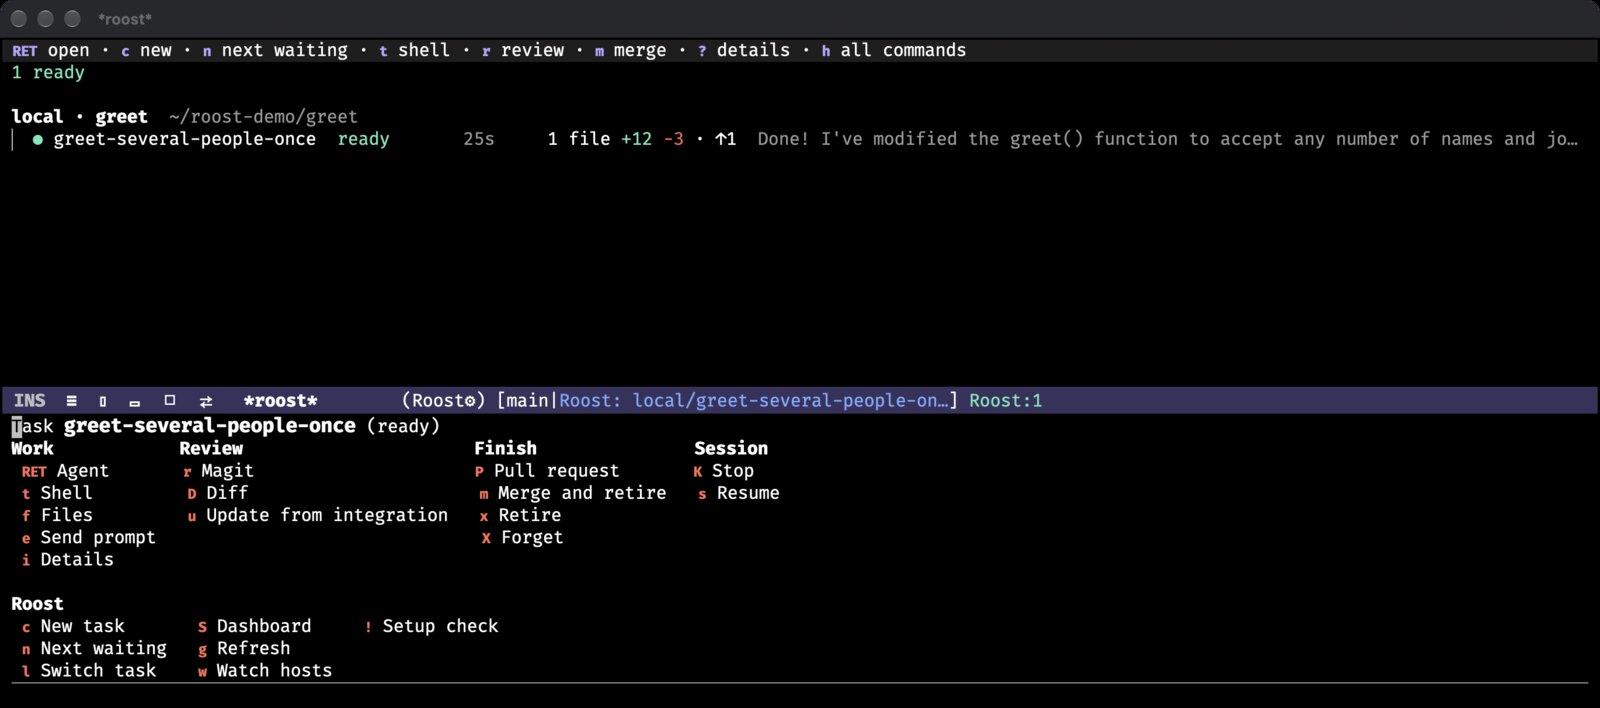
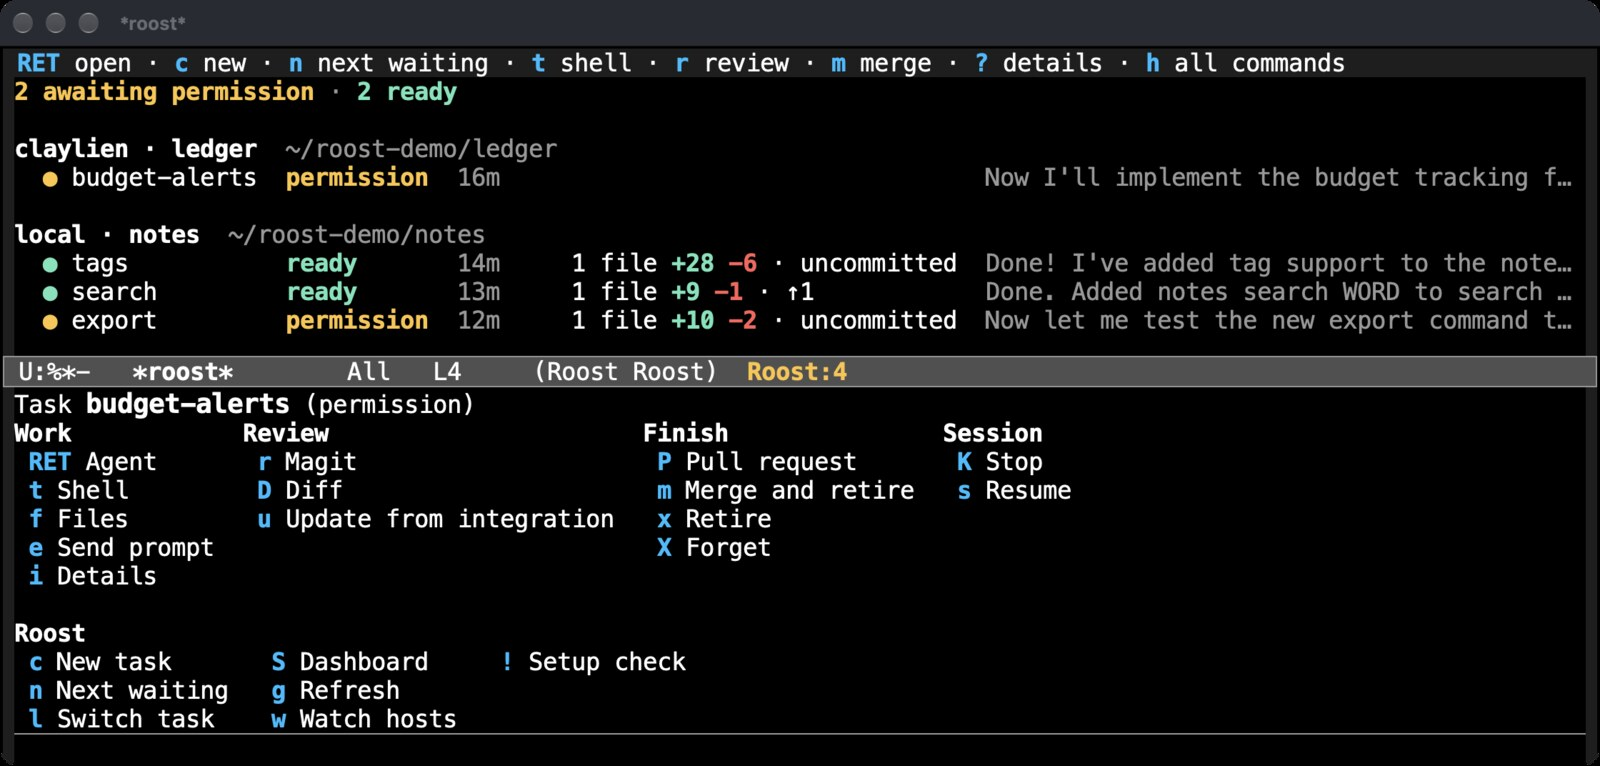
Recapture every README image in a plain Emacs, and show the agent's terminal
All images now come from one consistent setup: the stock theme and mode
line, no personal configuration, and real Claude Code tasks on the Mac
and claylien. A new image shows what RET opens, the agent's own terminal
at a permission prompt, which the old hero squeezed in below the
dashboard.

Changed region(s): [[0.0, 0.0, 1.0, 0.9944], [0.1562, 0.2797, 0.3125, 0.435], [0.3125, 0.839, 0.4375, 0.9011]]

diff --git a/docs/demo.md b/docs/demo.md
@@ -1,24 +1,26 @@
 # The README screenshots
 
-The images are native captures of GUI Emacs on 2026-10-04, taken while real
-agents worked on two small disposable projects: `ledger`, an expense-ledger CLI
-on the SSH host `claylien`, and `notes`, a notes CLI on the Mac. Claude Code ran
-Haiku 4.5 and Codex ran `gpt-6-luna`, each in its own terminal with its normal
-permission prompts.
+The images are native captures of GUI Emacs on 2026-10-04, taken while Claude
+Code (Haiku 4.5) worked on two small disposable projects: `notes`, a notes CLI on
+the Mac, and `ledger`, an expense-ledger CLI on the SSH host `claylien`, each
+agent in its own terminal with its normal permission prompts.
 
-The capture Emacs used the author's configuration (FiraCode, modus-vivendi,
-xah-fly-keys) at a larger font size, without the tab line. It used a separate
-state directory and tmux socket named `roost-qa`, which appear in the task
-details; a normal setup shows `~/.local/share/roost` and your tmux-control socket.
+The capture Emacs was a plain configuration so that nothing personal distracts:
+the stock `modus-vivendi` theme and mode line at a larger font size, with
+Roost, tmux-control and Magit and nothing else. It used a separate state
+directory and tmux socket named `roost-demo`, which appear in the task details
+and terminal tab bar; a normal setup shows `~/.local/share/roost` and your
+tmux-control socket. The terminals' shell prompt is the author's.
 
 | Image | What it shows |
 | --- | --- |
-| `roost-dashboard.jpg` | Captured after 0.8 in a plain Emacs (stock `modus-vivendi`, default mode line) so nothing personal distracts: four Claude Code (Haiku 4.5) tasks in `~/roost-demo` projects on `claylien` and the Mac, one waiting for permission, two finished (one uncommitted, one committed), one working. The numbered key was added with ImageMagick |
-| `roost-new-task.jpg` | A draft opened on an Org heading in `~/roost-demo/greet.org`: the heading and its notes are the prompt, with the derived name and the Issue field (captured after 0.8) |
-| `roost-menu.jpg` | After that task ran (Claude Code, Haiku 4.5): its row with the agent's reply, `Roost:1` in the mode line, and `h`'s command menu naming the task |
-| `roost-workspace.jpg` | Claude Code's summary beside the task shell, where the tests were rerun independently |
-| `roost-review.jpg` | Magit over TRAMP on the remote worktree, expanding the agent's change |
-| `roost-task-panel.jpg` | Captured later the same day while Roost was developed with Roost: a Claude Code task on `claylien` that changed Roost's own helper, after answering Copilot's review of its pull request (#2) |
+| `roost-dashboard.jpg` | The dashboard alone, with four tasks on two machines: one waiting for permission, two finished (one uncommitted, one committed), one working. The numbered key was added with ImageMagick |
+| `roost-new-task.jpg` | A draft opened on an Org heading in `notes.org`: the heading and its notes are the prompt, with the derived name and the Issue field |
+| `roost-terminal.jpg` | The `budget-alerts` agent's own terminal on `claylien`, opened with `RET`, asking before it creates a file |
+| `roost-menu.jpg` | `h`'s command menu below the dashboard, naming the task its commands act on |
+| `roost-workspace.jpg` | The `tags` agent's summary beside the task shell (`t`), where the new `--tag` filter was tried by hand |
+| `roost-review.jpg` | Magit on the `tags` worktree (`r`), expanding the agent's uncommitted change |
+| `roost-task-panel.jpg` | The `search` task's panel (`?`): its reply, a commit ahead of `main`, the prompt, actions and details |
 
 ## Try the same workflow
 

diff --git a/README.md b/README.md
@@ -61,15 +61,20 @@ reply too, and the mode line counts the agents waiting (`Roost:2`; click it for
 the next one). `n` jumps to the next agent waiting for you, permission requests
 first. Answer it in the terminal, then `n` again.
 
+![Claude Code on claylien asking to create budgets.json, in its own terminal inside Emacs](docs/images/roost-terminal.jpg)
+
+*`RET` opens the agent's real terminal, here Claude Code on the SSH host
+`claylien` asking before it creates a file. Answer it as you would anywhere.*
+
 **Check the work yourself.** `t` opens a shell beside the agent, in the same
 worktree. Run the tests, start the app, poke at it.
 
-![Claude Code's summary beside the task shell where the tests were rerun](docs/images/roost-workspace.jpg)
+![The agent's summary beside a shell in the same worktree, trying the new --tag filter by hand](docs/images/roost-workspace.jpg)
 
 **Review in Magit.** `r` opens Magit on the task's worktree, through TRAMP for
 remote tasks. Stage, edit and commit as usual.
 
-![Magit showing the agent's change in a remote worktree](docs/images/roost-review.jpg)
+![Magit on the task's worktree, showing the agent's uncommitted change](docs/images/roost-review.jpg)
 
 **Catch up and finish.** When other tasks land first, the dashboard shows the
 task falling behind (`↓2`). `u` merges the integration branch into the task's
@@ -85,10 +90,10 @@ to the agent with `e`; when it has committed, `P` pushes the new commits and
 opens the pull request. Once it is merged, `x` retires the task and deletes the
 branch. Needs `gh` on the task's host, and Git credentials there that can push.
 
-![A remote task's panel: the agent's latest reply, its changes, its open pull request, the folded prompt and the actions](docs/images/roost-task-panel.jpg)
+![A task's panel: the agent's latest reply, its changes, the prompt, the actions and the details](docs/images/roost-task-panel.jpg)
 
-*Roost working on itself: a Claude Code task on the SSH host `claylien` has
-answered review feedback on its pull request; `P` pushes such fixes to it.*
+*`?` shows a task's panel: what the agent said, what changed, and what you can
+do next.*
 
 ## Install
 
@@ -160,7 +165,7 @@ Magit is optional (review falls back to Dired).
 
 `roost-status` opens the dashboard. In it, and in a task's details panel:
 
-![The command menu below the dashboard, naming the task it acts on, with the agent's reply in the row and Roost:1 in the mode line](docs/images/roost-menu.jpg)
+![The command menu below the dashboard, naming the task its commands act on](docs/images/roost-menu.jpg)
 
 | Key | Command | |
 | --- | --- | --- |
